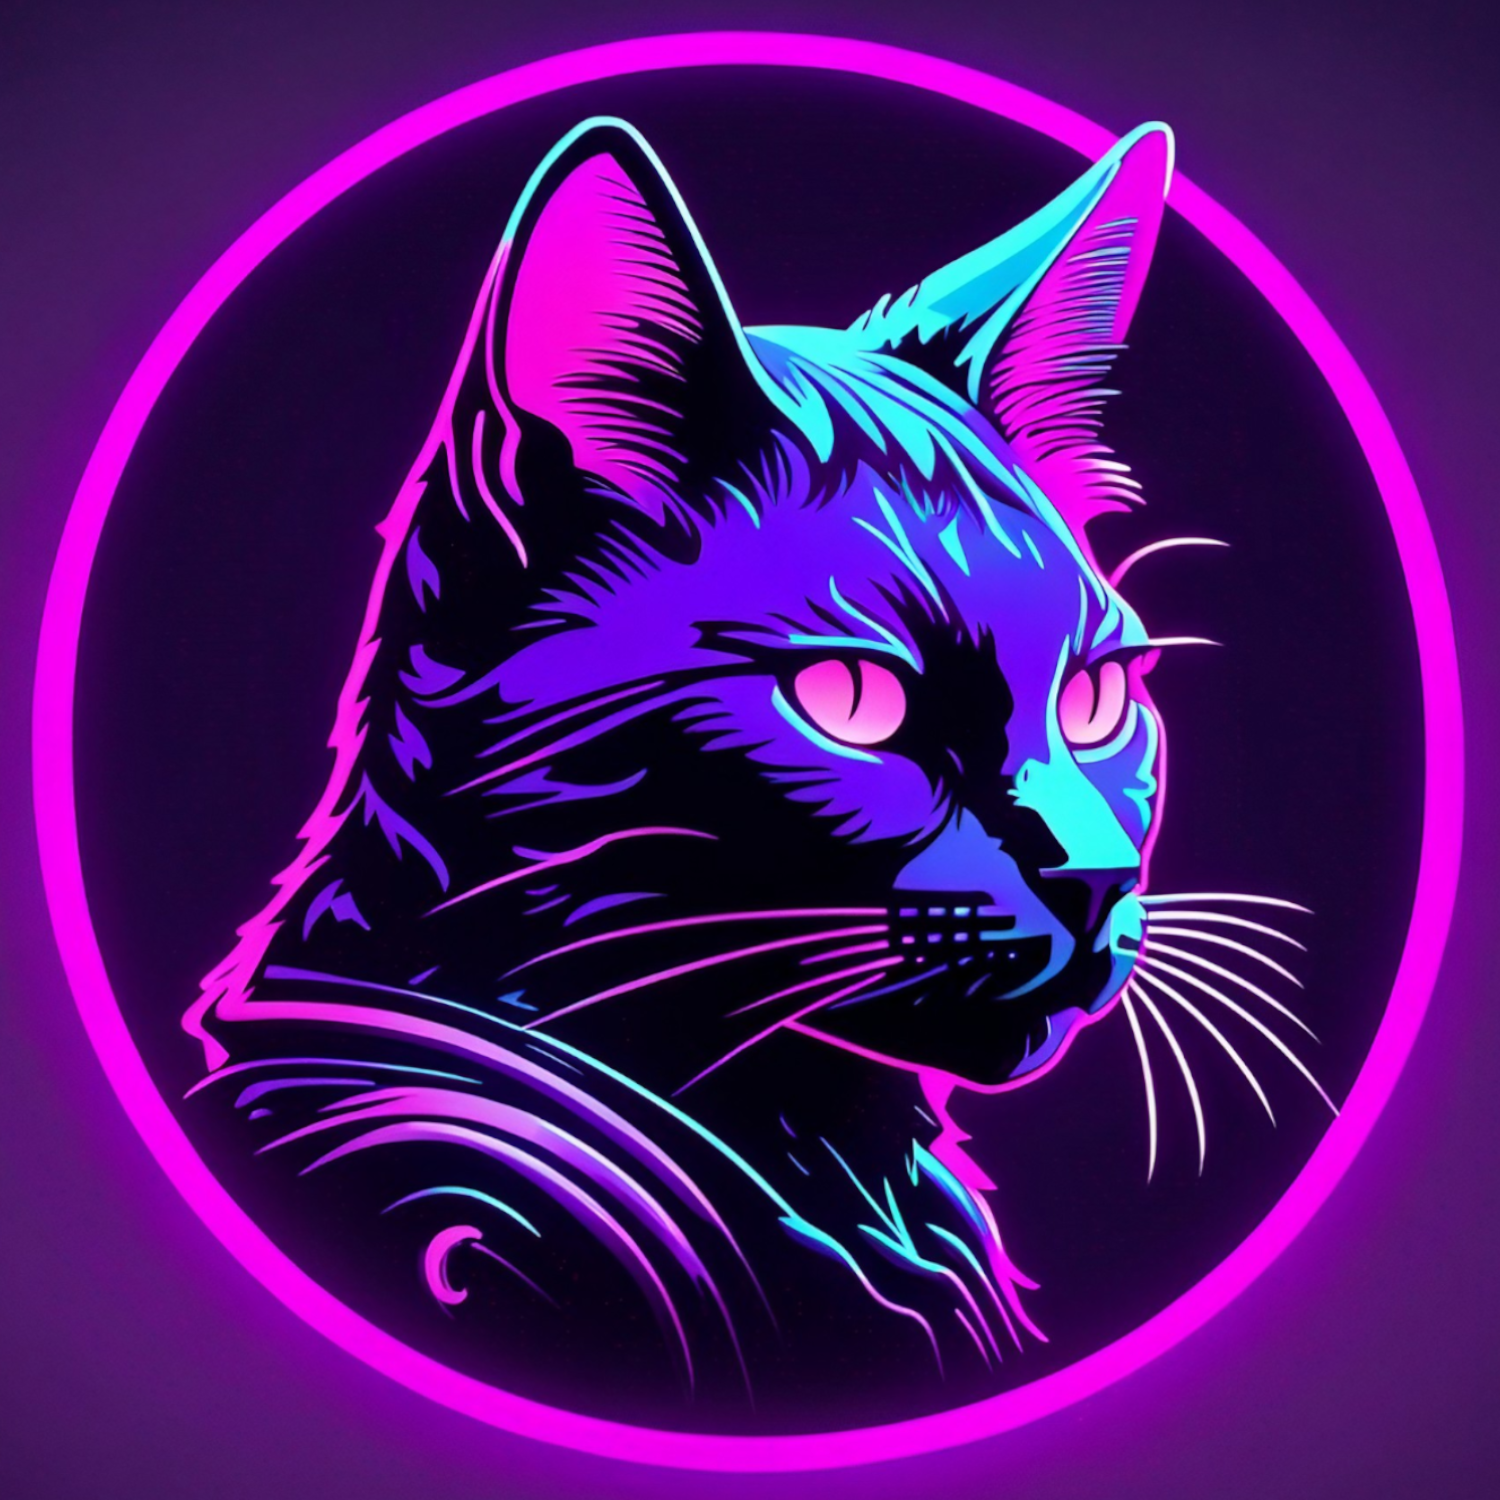
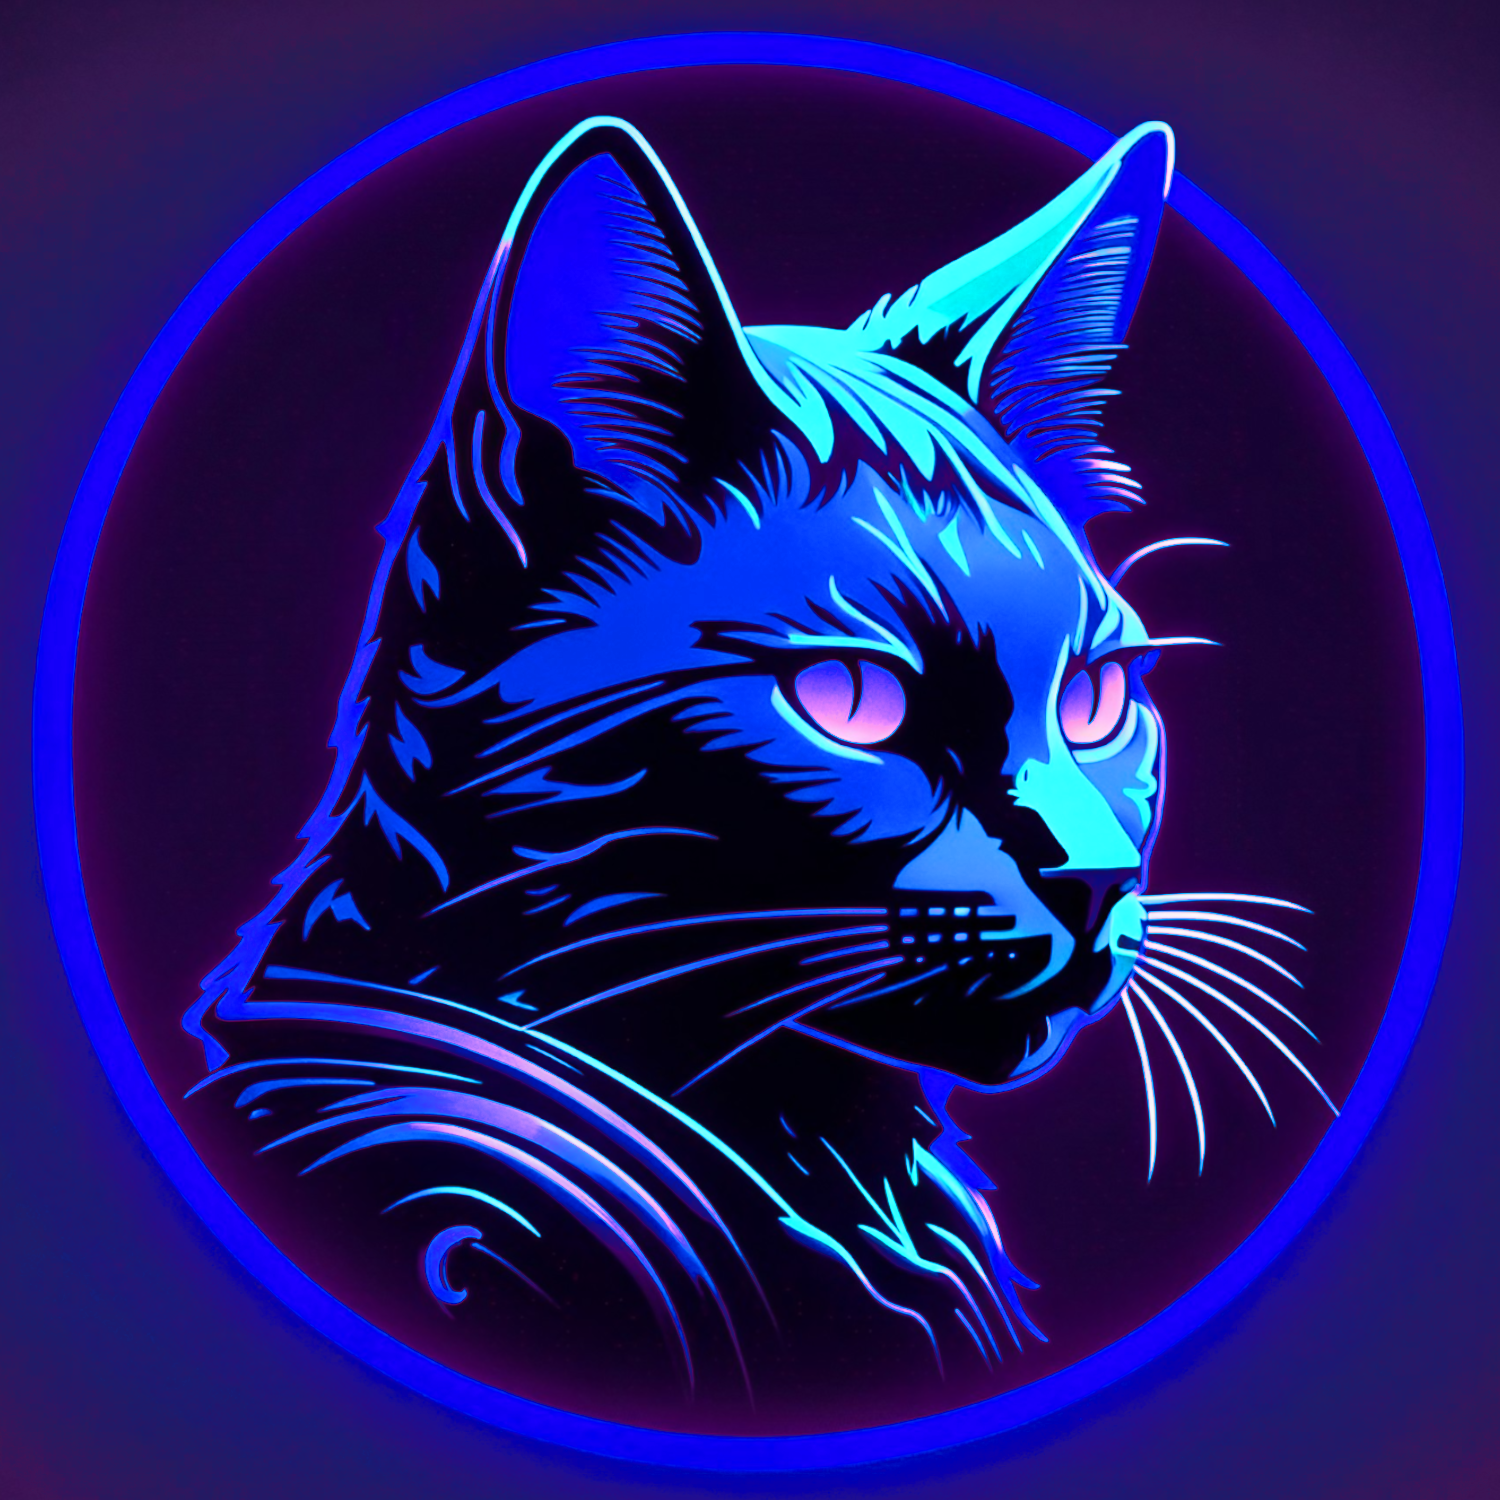
animations optimized

diff --git a/src/Components/Home/home.css b/src/Components/Home/home.css
@@ -64,6 +64,10 @@ SOFTWARE.
     height: 10rem;
 }
 
+.github_button a:hover {
+    scale: 90%;
+}
+
 .git_anim {
     height: 100%;
 }
@@ -71,6 +75,11 @@ SOFTWARE.
 .profession {
     padding-left: 1.3rem;
     cursor: default;
+    transition: var(--transitions);
+}
+
+.profession:hover {
+    scale: 90%;
 }
 
 .name {
@@ -78,11 +87,21 @@ SOFTWARE.
     font-weight: bold;
     padding-left: 1.3rem;
     cursor: default;
+    transition: var(--transitions);
+}
+
+.name:hover {
+    scale: 90%;
 }
 
 .stack {
     padding-left: 1.3rem;
     cursor: default;
+    transition: var(--transitions);
+}
+
+.stack:hover {
+    scale: 90%;
 }
 
 /* ===================== SMALL QUERIES (SMALL DEVICES) ===================== */

diff --git a/src/Layout/Navbar/Navbar.tsx b/src/Layout/Navbar/Navbar.tsx
@@ -1,8 +1,8 @@
 import {useState, useEffect} from 'react'
 import {navLinks} from '../../Data/data'
-import {Logo} from '../../assets'
-import { IoIosMail } from "react-icons/io";
+import {Email, Logo} from '../../assets'
 import './navbar.css'
+import Lottie from 'lottie-react'
 
 /*
 MIT License
@@ -74,7 +74,7 @@ const Navbar = () => {
       </ul>
       <div>
         <a href='mailto:akushyk799@gmail.com' className='email'>
-          <IoIosMail className='email_el'/>
+          <Lottie animationData={Email} className='email_el'/>
         </a>
       </div>
     </nav>

diff --git a/src/Layout/Footer/footer.css b/src/Layout/Footer/footer.css
@@ -63,12 +63,22 @@ SOFTWARE.
 
 /* ===================== MEDIA QUERIES (MEDIUM DEVICES) ===================== */
 @media screen and (max-width: 1024px) {
-    
+    .footer_socials a {
+        width: 40rem;
+    }
 }
 
 /* ===================== SMALL QUERIES (SMALL DEVICES) ===================== */
 @media screen and (max-width: 600px) {
     .footer_socials a {
-        scale: 120%;
+        width: 450rem;
+    }
+
+    .footer_socials::before {
+        display: none;
+    }
+
+    .footer_socials::after {
+        display: none;
     }
 }

diff --git a/src/Layout/Navbar/navbar.css b/src/Layout/Navbar/navbar.css
@@ -49,7 +49,7 @@ SOFTWARE.
 }
 
 .navbar .logo_div:hover {
-    background: rgb(255, 0, 255);
+    background: rgb(0, 0, 255);
     border-radius: 50%;
     transition: var(--transitions);
 }
@@ -81,17 +81,8 @@ SOFTWARE.
     color:var(--text-main);
 }
 
-.email {
-    color: var(--text-main);
-    transition: var(--transitions);
-}
-
-.email:hover {
-    color: var(--text-submain);
-}
-
 .email_el {
-    font-size: 1.6rem;
+    width: 4.5rem;
     margin-top: 0.5rem;
 }
 

diff --git a/src/Components/Home/Home.tsx b/src/Components/Home/Home.tsx
@@ -50,7 +50,7 @@ const Home = () => {
             </a>
           </div>
           <div className='profession'>
-            junior full stack developer
+            Full Stack Developer
           </div>
           <div className='name'>
             Andrew Kushyk

diff --git a/src/index.css b/src/index.css
@@ -36,7 +36,7 @@ SOFTWARE.
 
 :root {
   --text-main: #ffff;
-  --text-submain: #ff00ea;
+  --text-submain: #0400ff;
   --color-primary: black;
 
   --transitions: all 500ms ease;
